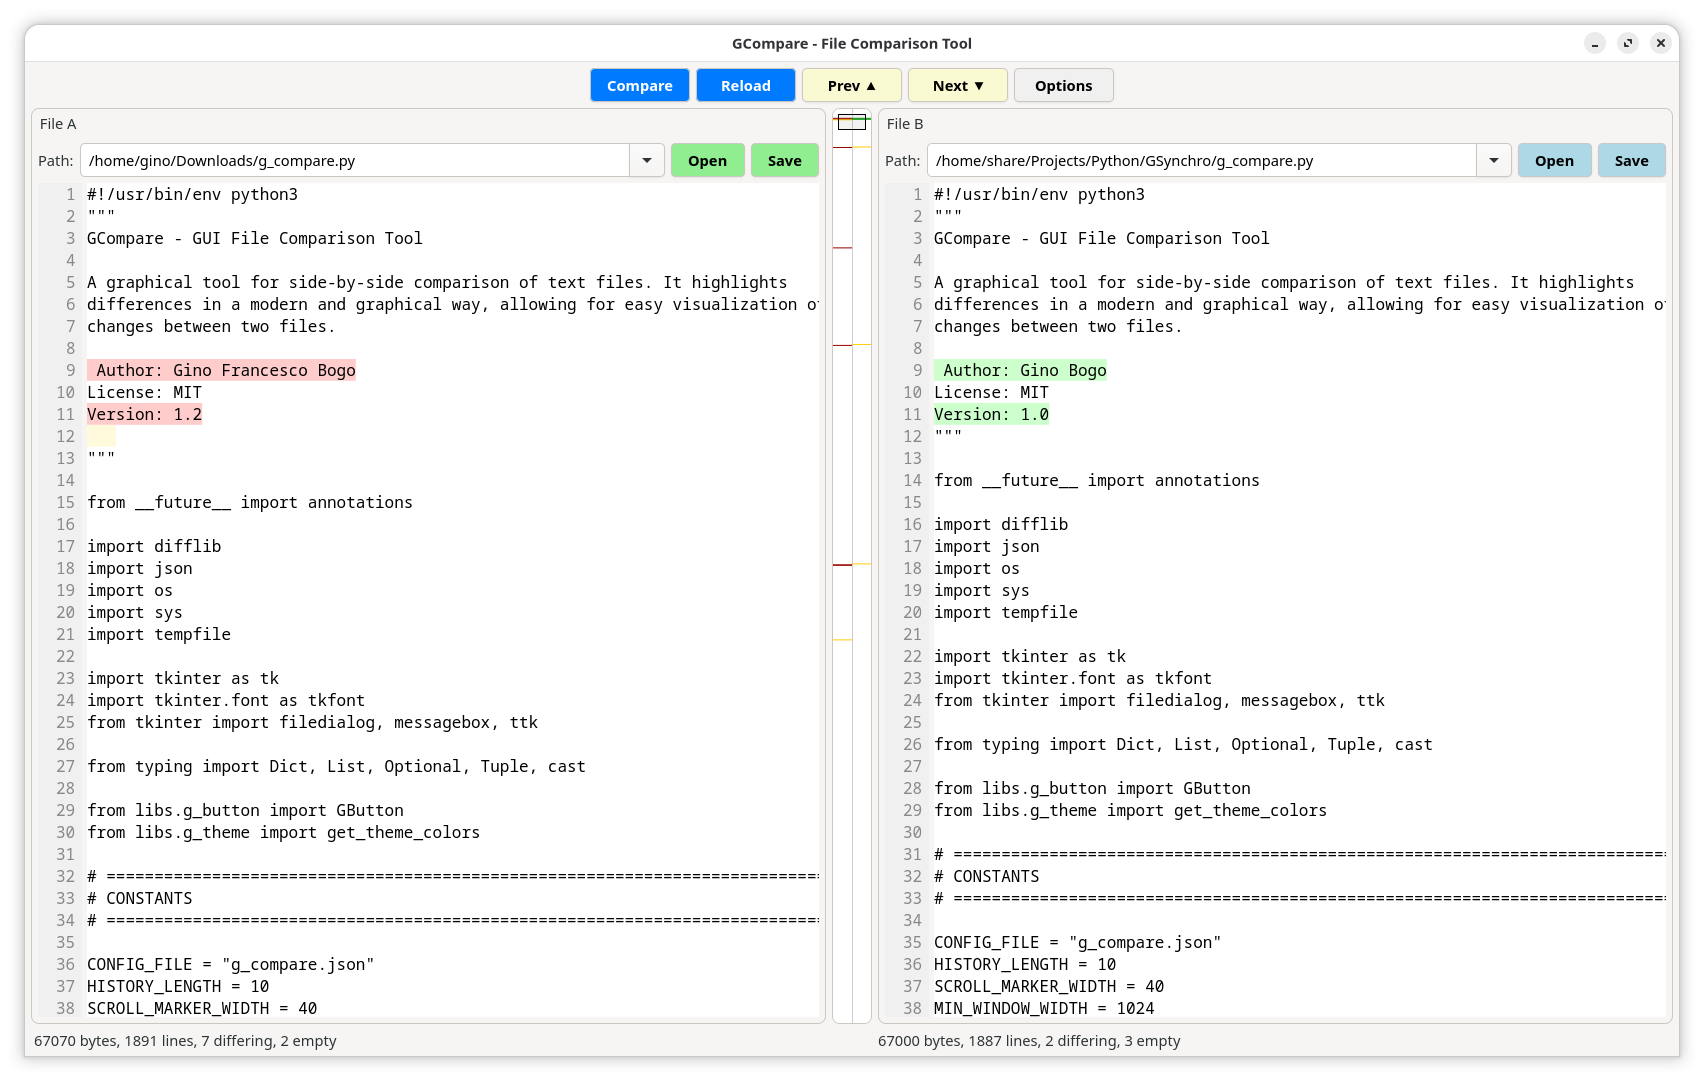
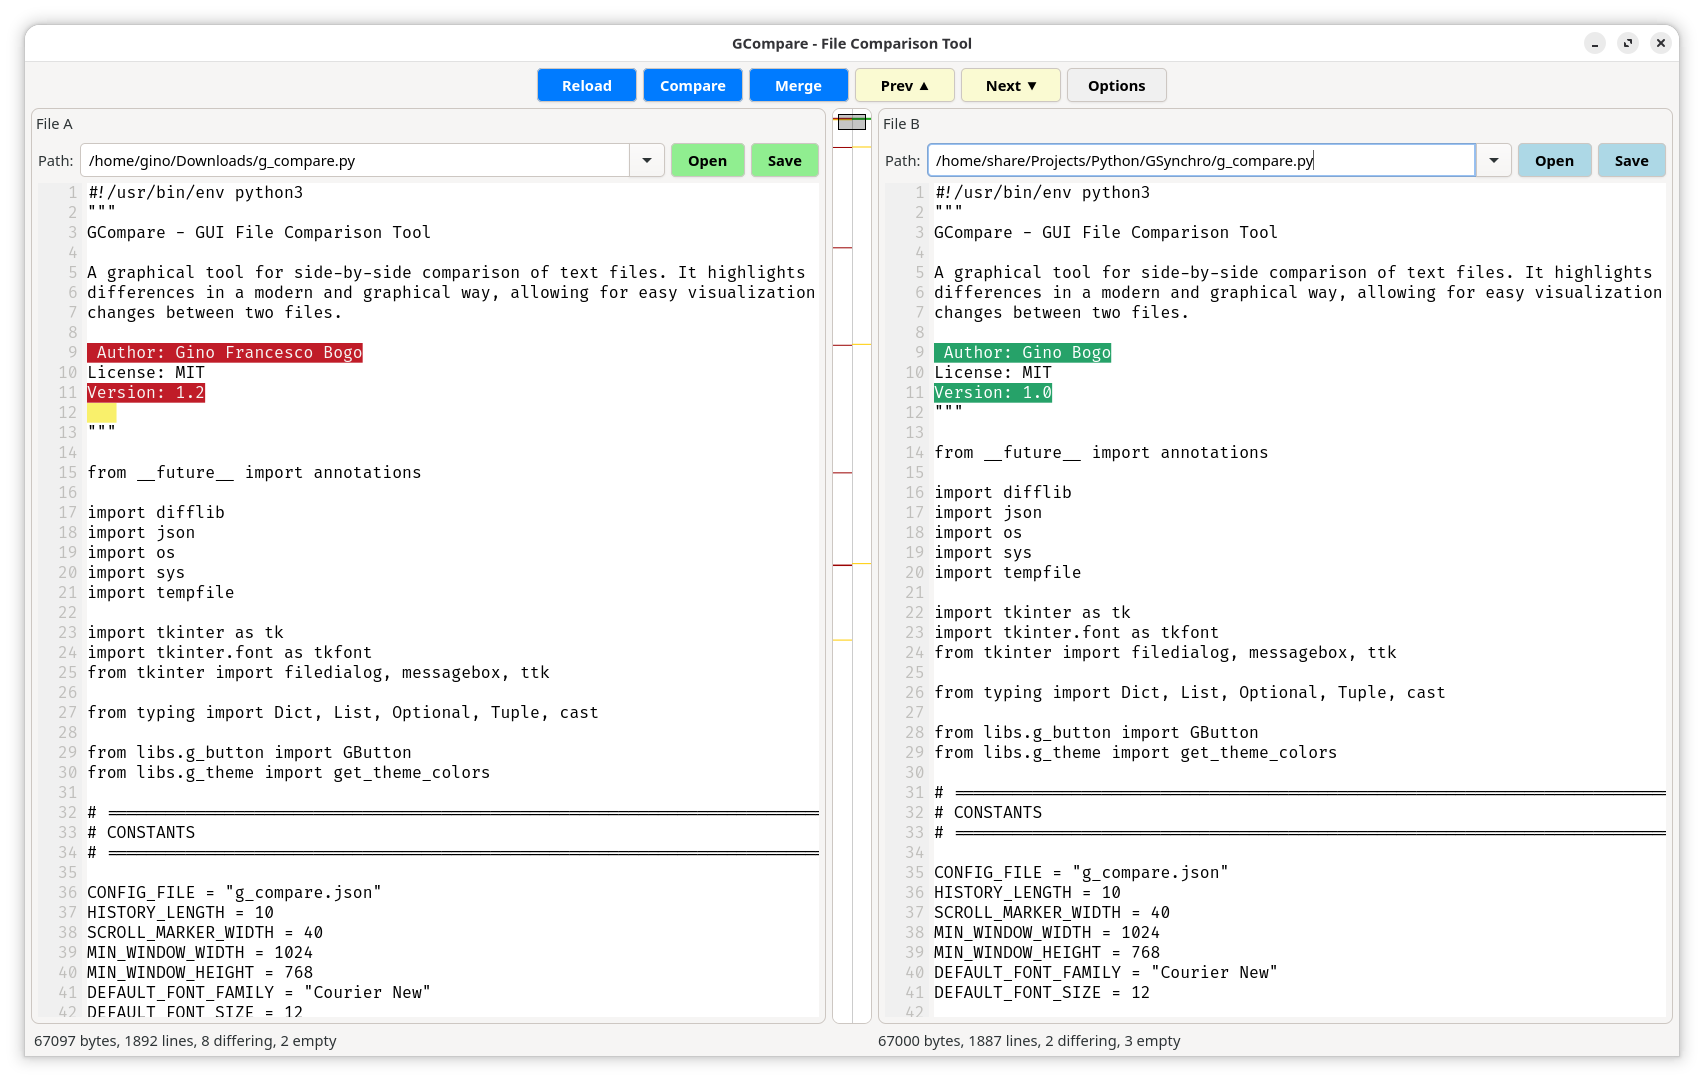
docs: Update README with merge capabilities and add screenshots

diff --git a/README.md b/README.md
@@ -9,9 +9,18 @@ GCompare is a modern, efficient file comparison tool written in Rust using the G
 *   **Synchronized Scrolling**: Scroll both panels simultaneously to keep context aligned.
 *   **Diff Highlighting**: Clear visual indicators for added (green) and removed (red) lines.
 *   **File History**: Remembers previously opened files for quick access via a combo box.
+*   **Merge Files**: Advanced merge capabilities with multiple strategies (Accept Ours, Accept Theirs, Union, Mark Conflicts) and interactive conflict resolution.
 *   **Custom UI Components**: Built with specialized GTK4 widgets including `GTextView` with line numbers and `GButton` with theming support.
 
 ![figure_01.png](docs/images/figure_01.png)
+
+![figure_02.png](docs/images/figure_02.png)
+
+![figure_03.png](docs/images/figure_03.png)
+
+![figure_04.png](docs/images/figure_04.png)
+
+![figure_05.png](docs/images/figure_05.png)
 
 ## Prerequisites
 
@@ -53,8 +62,8 @@ sudo pacman -S gtk4 base-devel
 The project is organized into modular components:
 
 *   `src/libs/widgets`: Custom reusable UI widgets (`GButton`, `GDiffMap`, `GTextView`, `GStatusBar`).
-*   `src/libs/ui`: High-level application panels (`ControlPanelWidget`, `ComparisonPanelsWidget`).
-*   `src/libs/services`: Business logic (`FileService`, `DiffService`, `ConfigService`).
+*   `src/libs/ui`: High-level application panels (`ControlPanelWidget`, `ComparisonPanelsWidget`, `MergeViewWidget`).
+*   `src/libs/services`: Business logic (`FileService`, `DiffService`, `MergeService`, `ConfigService`).
 *   `src/libs/state`: Application state management.
 
 ## Third-Party Libraries
